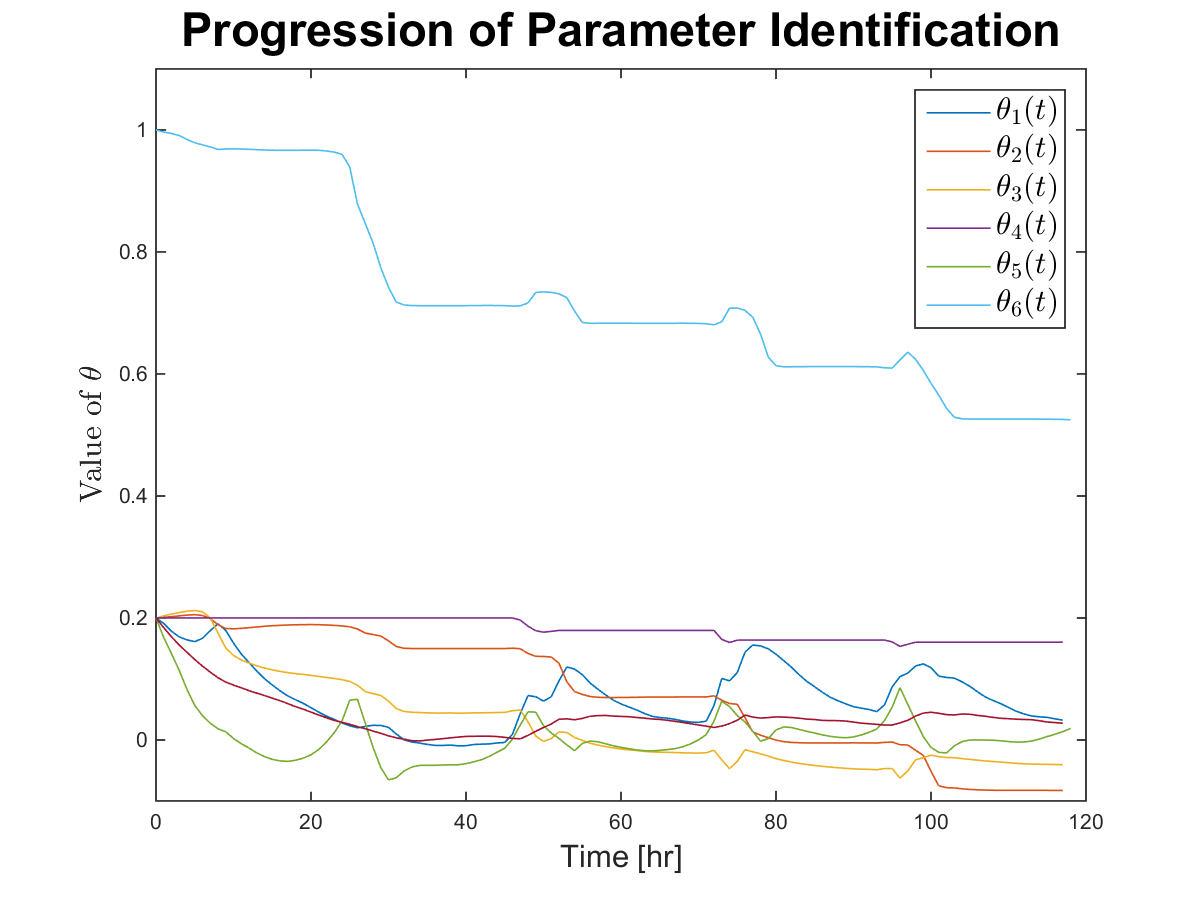
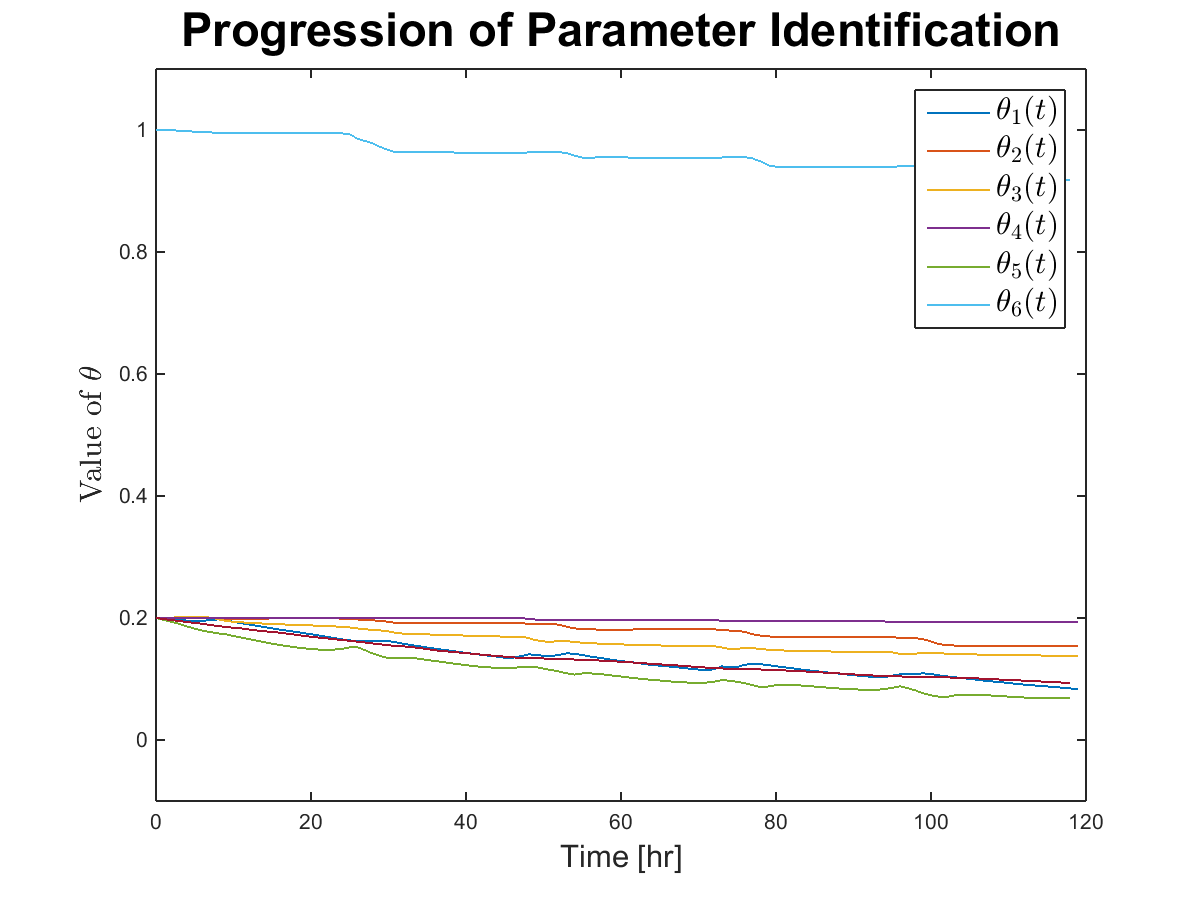
changed eta

diff --git a/Param_Identification.m b/Param_Identification.m
@@ -71,7 +71,7 @@ theta_hat0_2 = multiplier*[2*1, 10*1];
 theta_hat0_3 = 2*multiplier*[1];
 
 % Update Law Gain
-eta = 10^(-1);
+eta = 10^(-2);
 Gam1 = eta*eye(4);
 Gam2 = eta*eye(2);
 Gam3 = eta*eye(1);
@@ -140,7 +140,7 @@ sys_hat = ss(Ahat, Bhat, C_dummy, D_dummy);
 U_hat = [air_out, s];
 
 % Initial conditions [deg F]
-That0 = [70; 70.5; 67];
+That0 = [air_in(1); mass_wall(1); mass_floor(1)];
 
 % Simulate
 [~,~,That] = lsim(sys_hat, U_hat, t, That0);
